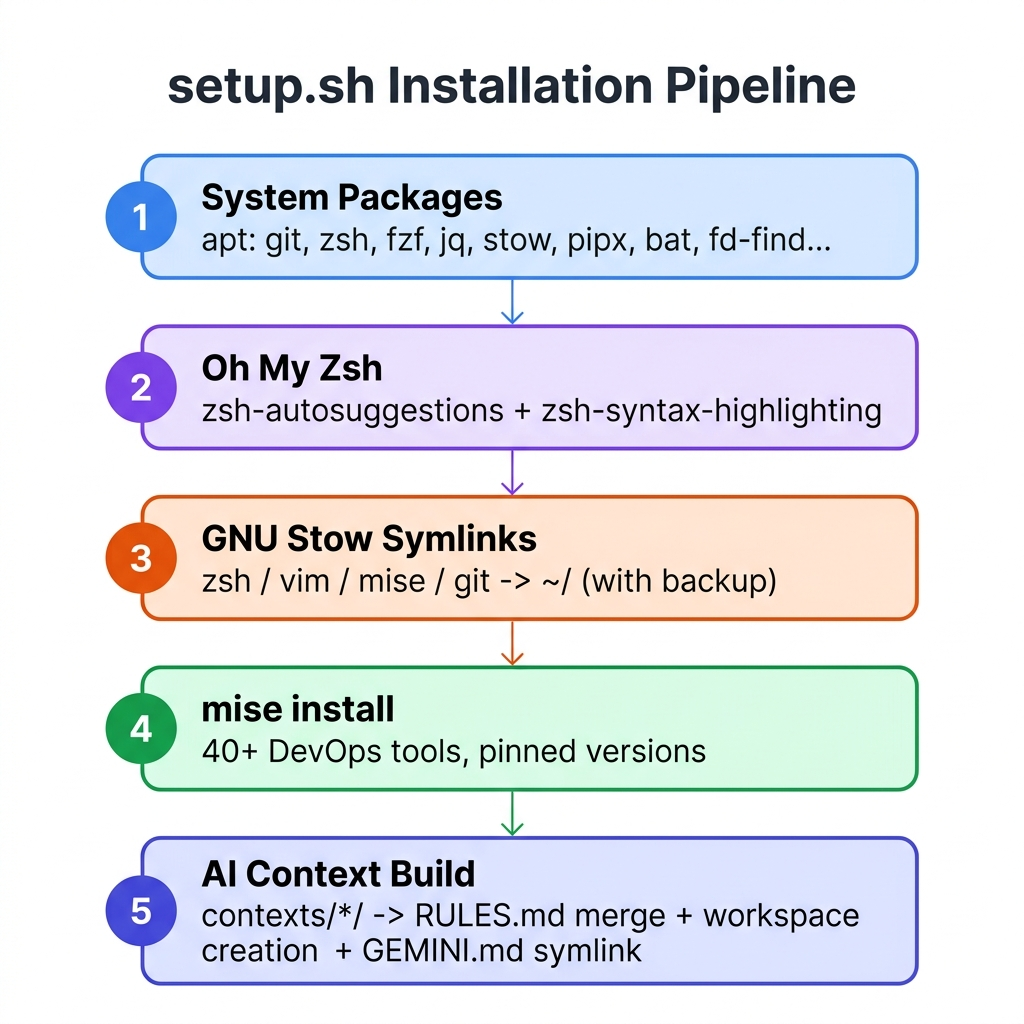
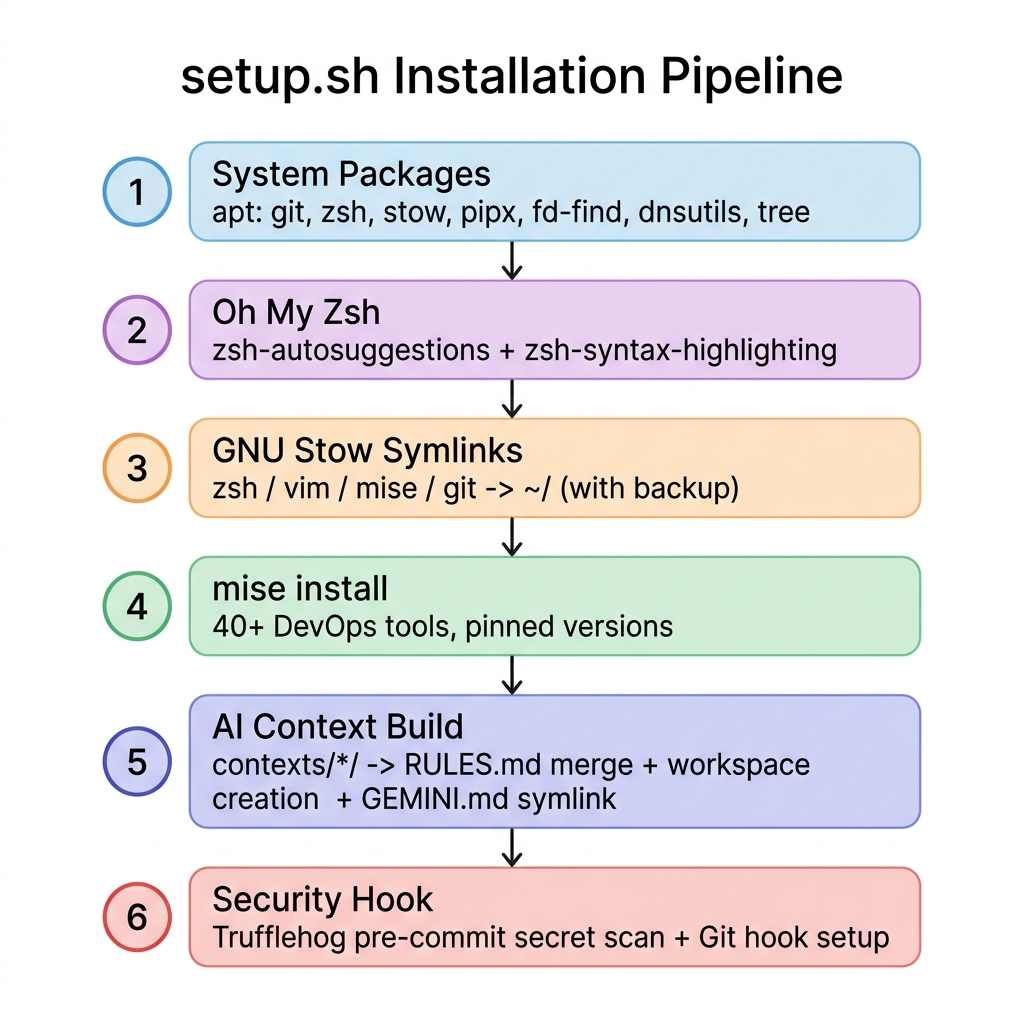
docs(readme): 설치 가이드 상단 배치 및 불필요 섹션 제거 (가독성 개선)
refactor: AWS/FinOps VPC 엔드포인트 프롬프트 논리 중복 제거

chore: setup-pipeline.png 이미지 최신 버전(6단계) 갱신

diff --git a/README.md b/README.md
@@ -8,12 +8,103 @@
 
 ## 목차
 
-1. [핵심 기능](#핵심-기능)
-2. [작동 논리 및 아키텍처](#작동-논리-및-아키텍처)
-3. [설치 가이드](#설치-가이드)
-4. [디렉토리 구조](#디렉토리-구조)
+1. [설치 가이드](#설치-가이드)
+2. [디렉토리 구조](#디렉토리-구조)
+3. [핵심 기능](#핵심-기능)
+4. [작동 논리 및 아키텍처](#작동-논리-및-아키텍처)
 5. [포함된 도구 및 단축어](#포함된-도구-및-단축어)
 6. [커스터마이징](#커스터마이징)
+
+---
+
+## 설치 가이드
+
+> [!WARNING]
+> **지원 OS**: Ubuntu / Debian 기반 Linux (또는 Windows WSL2 Ubuntu 환경)
+> WSL2 사용 시, 반드시 Linux 네이티브 홈 디렉토리(`~/`) 하위에 클론하십시오. `/mnt/c/` 경로에서 실행하면 권한 오류가 발생하며 스크립트가 즉시 종료됩니다.
+
+### Step 1. 저장소 클론
+
+```bash
+git clone https://github.com/iaminpwd/dotfiles.git ~/dotfiles
+cd ~/dotfiles
+```
+
+### Step 2. 자동 설치 스크립트 실행
+
+```bash
+./setup.sh
+```
+
+스크립트는 다음 6단계를 순차적으로 실행합니다.
+
+| 단계 | 작업 내용 |
+|---|---|
+| **[1/6]** 필수 패키지 설치 | `apt`로 git, zsh, stow, pipx, fd-find, dnsutils, tree 등 설치 |
+| **[2/6]** Oh My Zsh 구성 | Oh My Zsh + `zsh-autosuggestions`, `zsh-syntax-highlighting` 플러그인 설치 |
+| **[3/6]** Stow 심볼릭 링크 | 기존 설정 파일 백업 후, `zsh/vim/mise/git` 설정을 홈 디렉토리로 symlink |
+| **[4/6]** mise 인프라 도구 설치 | `mise install`로 `mise.toml`에 선언된 40+ 데브옵스 도구 일괄 설치 |
+| **[5/6]** AI 컨텍스트 빌드 | `contexts/*/` 순회하여 `RULES.md` 병합, 워크스페이스 생성, `GEMINI.md` symlink |
+| **[6/6]** 시크릿 보안 훅 | Trufflehog 기반 Git `pre-commit` 보안 스캔 훅 자동 구성 (시크릿 유출 원천 차단) |
+
+### Step 3. 터미널 재시작
+
+```bash
+exec zsh
+# 또는 기존 터미널에서: src
+```
+
+### 성공 검증 커맨드
+
+```bash
+# mise 도구 설치 확인
+mise ls
+
+# Stow symlink 확인
+ls -la ~/.zshrc ~/.gitconfig ~/.mise.toml
+
+# AI 컨텍스트 빌드 확인
+ls ~/workspace/aws/src && cat ~/dotfiles/GEMINI.md | head -5
+
+# 훅 동작 확인: aws workspace로 이동 후 확인
+cd ~/workspace/aws/src
+mkdir -p test-repo && cd test-repo && git init
+ls -la .gemini/
+```
+
+---
+
+## 디렉토리 구조
+
+```text
+~/dotfiles
+├── contexts/             # AI 컨텍스트 룰북 단일 진실 공급원 (SSOT)
+│   ├── 000-universal-core.md  # 전 워크스페이스 공통 마스터 엔진 (SSOT)
+│   ├── README.md              # 프롬프트 아키텍처 백과사전
+│   ├── aws/              # AWS 인프라 워크스페이스 룰북 🟢 Production
+│   ├── aiops/            # AIOps (운영 자동화) 워크스페이스 🟡 Draft
+│   ├── dotfiles/         # dotfiles 레포 자체 관리용 메타 프롬프트 🟢 Production
+│   └── k8s/              # Kubernetes & Cloud Native 워크스페이스 🟡 Draft
+│
+├── git/
+│   ├── .gitconfig        # 글로벌 Git 설정 (alias, pull.rebase=true)
+│   └── .gitignore_global # 시스템 전역 Git 무시 규칙 (tfstate, .env 등)
+│
+├── mise/
+│   └── .mise.toml        # 인프라 도구 버전 선언 매니페스트 (SSOT)
+│
+├── vim/
+│   └── .vimrc            # Vim 설정 (클립보드 연동, YAML 2칸 탭)
+│
+├── zsh/
+│   └── .zshrc            # Zsh 설정 (Oh My Zsh, 단축어, auto_symlink 훅)
+│
+├── .aiexclude            # 루트: contexts/ 내 원본 소스 중복 인덱싱 차단
+├── .gitignore            # dotfiles 레포 자체 Git 무시 규칙
+├── GEMINI.md             # symlink -> contexts/dotfiles/RULES.md
+├── README.md             # 본 문서
+└── setup.sh              # 전체 환경 자동 구성 스크립트 (set -euo pipefail)
+```
 
 ---
 
@@ -56,12 +147,12 @@
 
 **워크스페이스별 특화 모듈:**
 
-| 워크스페이스 | 모듈 수 | 주요 커버리지 |
-|---|---|---|
-| **AWS** (`aws/`) | 12개 (`000`~`110`) | 자격증명 격리, FinOps, Terraform, EKS, Serverless, RDS, 장애 대응 |
-| **K8s** (`k8s/`) | 10개 (`000`~`090`) | GitOps/ArgoCD, mTLS, External Secrets, eBPF 런타임 보안, KEDA |
-| **AIOps** (`aiops/`) | 8개 (`000`~`070`) | Blameless Post-Mortem, SRE 에러 분석, SLI/SLO 지표 기반 진단 |
-| **Dotfiles** (`dotfiles/`) | 5개 (`000`~`050`) | 인지 엔진, 셸 스크립팅 표준, 툴체인 관리, 보안, 메타 프롬프팅 |
+| 워크스페이스 | 상태 | 모듈 수 | 주요 커버리지 |
+|---|---|---|---|
+| **AWS** (`aws/`) | 🟢 **Production** | 12개 (`000`~`110`) | 자격증명 격리, FinOps, Terraform, EKS, Serverless, RDS, 장애 대응 |
+| **K8s** (`k8s/`) | 🟡 Draft (초안) | 10개 (`000`~`090`) | GitOps/ArgoCD, mTLS, External Secrets, eBPF 런타임 보안, KEDA |
+| **AIOps** (`aiops/`) | 🟡 Draft (초안) | 8개 (`000`~`070`) | Blameless Post-Mortem, SRE 에러 분석, SLI/SLO 지표 기반 진단 |
+| **Dotfiles** (`dotfiles/`) | 🟢 **Production** | 5개 (`000`~`050`) | 인지 엔진, 셸 스크립팅 표준, 툴체인 관리, 보안, 메타 프롬프팅 |
 
 ---
 
@@ -85,9 +176,14 @@
 
 > **[MUST] 수정 원칙:** 설정 파일을 직접 편집할 때는 반드시 `~/dotfiles/` 내의 원본 소스 파일만 조작하십시오. `~/.zshrc`를 직접 편집하면 symlink 아키텍처가 파괴됩니다.
 
-### Auto-Symlink 훅 동작 원리 (Zsh `chpwd`)
+### 이중 Auto-Symlink 훅 동작 원리 (Zsh `chpwd`)
 
-개발자가 특정 디렉토리로 `cd`할 때 AI 룰북이 자동 주입되는 메커니즘입니다.
+Zsh 디렉토리 이동(`cd`) 이벤트를 감지하여 두 가지 핵심 심볼릭 링크를 자동 주입합니다.
+
+1. **마스터 코어 룰북 주입 훅 (`auto_symlink_contexts_core`)**
+   - 개발자가 새로운 AI 룰 폴더(예: `~/dotfiles/contexts/gcp/`)로 진입하기만 하면, 즉시 최상단 `000-universal-core.md` SSOT 마스터 파일을 해당 폴더 내부에 동적으로 링크 생성하여 멱등성을 보장합니다.
+2. **워크스페이스 작업용 주입 훅 (`auto_symlink_ai_rules`)**
+   - 개발자가 인프라 작업 폴더(예: `~/workspace/aws/src/my-repo`)로 진입하면, 해당 환경의 `RULES.md` 룰북과 `.aiexclude`를 자동으로 주입하여 작업용 AI 컨텍스트를 완성합니다.
 
 <p align="center">
   <img src="assets/auto-symlink-hook.png" alt="Auto-Symlink Hook Workflow" width="480">
@@ -122,94 +218,6 @@ my-terraform-repo/
 
 ---
 
-## 설치 가이드
-
-> [!WARNING]
-> **지원 OS**: Ubuntu / Debian 기반 Linux (또는 Windows WSL2 Ubuntu 환경)
-> WSL2 사용 시, 반드시 Linux 네이티브 홈 디렉토리(`~/`) 하위에 클론하십시오. `/mnt/c/` 경로에서 실행하면 권한 오류가 발생하며 스크립트가 즉시 종료됩니다.
-
-### Step 1. 저장소 클론
-
-```bash
-git clone https://github.com/iaminpwd/dotfiles.git ~/dotfiles
-cd ~/dotfiles
-```
-
-### Step 2. 자동 설치 스크립트 실행
-
-```bash
-./setup.sh
-```
-
-스크립트는 다음 5단계를 순차적으로 실행합니다.
-
-| 단계 | 작업 내용 |
-|---|---|
-| **[1/5]** 필수 패키지 설치 | `apt`로 git, zsh, fzf, jq, stow, pipx, bat, fd-find, tree 등 설치 |
-| **[2/5]** Oh My Zsh 구성 | Oh My Zsh + `zsh-autosuggestions`, `zsh-syntax-highlighting` 플러그인 설치 |
-| **[3/5]** Stow 심볼릭 링크 | 기존 설정 파일 백업 후, `zsh/vim/mise/git` 설정을 홈 디렉토리로 symlink |
-| **[4/5]** mise 인프라 도구 설치 | `mise install`로 `mise.toml`에 선언된 40+ 데브옵스 도구 일괄 설치 |
-| **[5/5]** AI 컨텍스트 빌드 | `contexts/*/` 순회하여 `RULES.md` 병합, 워크스페이스 생성, `GEMINI.md` symlink |
-
-### Step 3. 터미널 재시작
-
-```bash
-exec zsh
-# 또는 기존 터미널에서: src
-```
-
-### 성공 검증 커맨드
-
-```bash
-# mise 도구 설치 확인
-mise ls
-
-# Stow symlink 확인
-ls -la ~/.zshrc ~/.gitconfig ~/.mise.toml
-
-# AI 컨텍스트 빌드 확인
-ls ~/workspace/aws/src && cat ~/dotfiles/GEMINI.md | head -5
-
-# 훅 동작 확인: aws workspace로 이동 후 확인
-cd ~/workspace/aws/src
-mkdir -p test-repo && cd test-repo && git init
-ls -la .gemini/
-```
-
----
-
-## 디렉토리 구조
-
-```text
-~/dotfiles
-├── contexts/             # AI 컨텍스트 룰북 단일 진실 공급원 (SSOT)
-│   ├── aws/              # AWS 인프라 워크스페이스 룰북
-│   ├── aiops/            # AIOps (운영 자동화) 워크스페이스
-│   ├── dotfiles/         # dotfiles 레포 자체 관리용 메타 프롬프트
-│   └── k8s/              # Kubernetes & Cloud Native 워크스페이스
-│
-├── git/
-│   ├── .gitconfig        # 글로벌 Git 설정 (alias, pull.rebase=true)
-│   └── .gitignore_global # 시스템 전역 Git 무시 규칙 (tfstate, .env 등)
-│
-├── mise/
-│   └── .mise.toml        # 인프라 도구 버전 선언 매니페스트 (SSOT)
-│
-├── vim/
-│   └── .vimrc            # Vim 설정 (클립보드 연동, YAML 2칸 탭)
-│
-├── zsh/
-│   └── .zshrc            # Zsh 설정 (Oh My Zsh, 단축어, auto_symlink 훅)
-│
-├── .aiexclude            # 루트: contexts/ 내 원본 소스 중복 인덱싱 차단
-├── .gitignore            # dotfiles 레포 자체 Git 무시 규칙
-├── GEMINI.md             # symlink -> contexts/dotfiles/RULES.md
-├── README.md             # 본 문서
-└── setup.sh              # 전체 환경 자동 구성 스크립트 (set -euo pipefail)
-```
-
----
-
 ## 포함된 도구 및 단축어
 
 ### 1. `mise.toml` 선언 도구 목록 (버전 고정)
@@ -234,54 +242,31 @@ ls -la .gemini/
 **런타임**
 `node` · `python` · `go`
 
+**CLI 유틸리티**
+`fzf` · `jq` · `bat`
+
 > 버전 고정 정보는 [`mise/.mise.toml`](mise/.mise.toml)에서 확인하십시오.
 
 ### 2. 주요 단축어 (`.zshrc` & `.gitconfig`)
 
-```bash
-# --- Terraform ---
-tf        # terraform
-tfi       # terraform init
-tfp       # terraform plan
-tfv       # terraform validate
-tff       # terraform fmt -recursive
-
-# --- Kubernetes ---
-k         # kubectl
-kx        # kubectx
-kn        # kubens
-kgp       # kubectl get pods
-kgs       # kubectl get svc
-kga       # kubectl get all
-kdp       # kubectl describe pod
-klogs     # kubectl logs -f
-kex       # kubectl exec -i -t
-knet      # 트러블슈팅용 netshoot 컨테이너 즉시 실행
-
-# --- Docker & Helm ---
-d         # docker
-dc        # docker-compose
-h         # helm
-
-# --- Git ---
-git st    # status
-git co    # checkout
-git cb    # checkout -b
-git br    # branch
-git cm    # commit -m
-git df    # diff
-git amend # commit --amend --no-edit
-git lg    # 컬러 그래프 히스토리 (가독성 최적화)
-
-# --- 시스템 편의성 ---
-src       # source ~/.zshrc (설정 즉시 재로드)
-ll        # ls -alF
-bat       # batcat (Ubuntu 패키지명 충돌 해결)
-fd        # fdfind (Ubuntu 패키지명 충돌 해결)
-c         # code .
-e         # explorer.exe . (WSL2)
-catcode   # 현재 디렉토리 인프라 코드 전체를 all_code.txt로 추출
-```
+| 카테고리 | 단축어 | 명령어 | 단축어 | 명령어 |
+| :--- | :--- | :--- | :--- | :--- |
+| **Terraform** | `tf` | `terraform` | `tfi` | `terraform init` |
+| | `tfp` | `terraform plan` | `tfv` | `terraform validate` |
+| | `tff` | `terraform fmt -recursive` | | |
+| **Kubernetes** | `k` | `kubectl` | `kx` / `kn` | `kubectx` / `kubens` |
+| | `kgp` | `kubectl get pods` | `kgs` | `kubectl get svc` |
+| | `kga` | `kubectl get all` | `kdp` | `kubectl describe pod` |
+| | `klogs` | `kubectl logs -f` | `kex` | `kubectl exec -i -t` |
+| | `knet` | `netshoot 실행 (트러블슈팅)` | | |
+| **Docker/Helm** | `d` | `docker` | `dc` / `h`| `docker-compose` / `helm`|
+| **Git** | `git st` | `status` | `git co` | `checkout` |
+| | `git cb` | `checkout -b` | `git br` | `branch` |
+| | `git cm` | `commit -m` | `git df` | `diff` |
+| | `git amend` | `commit --amend --no-edit` | `git lg` | `컬러 그래프 히스토리` |
+| **시스템/기타** | `src` | `source ~/.zshrc (설정 재로드)` | `ll` | `ls -alF` |
+| | `fd` | `fdfind (충돌 해결)` | `c` / `e` | `code .` / `explorer.exe .` |
+| | `catcode` | `인프라 코드 전체 추출 (all_code.txt)` | | |
 
 ### 3. 로컬 시크릿 파일 (`~/.zshrc.local`)
 
@@ -344,12 +329,13 @@ vim ~/dotfiles/contexts/aws/.contexts/020-security-compliance.md
 새로운 환경(예: GCP)을 추가하려면 기존 워크스페이스 구조를 참고하여 디렉토리를 구성한 후 `setup.sh`를 재실행하십시오.
 
 ```bash
-# 신규 워크스페이스 디렉토리 생성
-mkdir -p ~/dotfiles/contexts/gcp/.contexts
+# 1. 신규 워크스페이스 도메인 디렉토리 진입 
+# (진입 시 Zsh 훅이 작동하여 .contexts 폴더와 000 마스터 코어 링크를 자동 주입합니다)
+mkdir -p ~/dotfiles/contexts/gcp
+cd ~/dotfiles/contexts/gcp
 
-# 모듈 파일 작성 (000-universal-core.md 부터 시작)
-cp ~/dotfiles/contexts/aws/.contexts/000-universal-core.md \
-   ~/dotfiles/contexts/gcp/.contexts/000-universal-core.md
+# 2. 도메인 특화 모듈 파일 작성 (010부터 시작)
+touch .contexts/010-gcp-core.md
 
 # setup.sh 재실행으로 자동 빌드 및 워크스페이스 생성
 ~/dotfiles/setup.sh
@@ -357,3 +343,4 @@ cp ~/dotfiles/contexts/aws/.contexts/000-universal-core.md \
 
 > [!NOTE]
 > `setup.sh`는 `contexts/` 하위의 모든 디렉토리를 자동 순회합니다. 새 디렉토리 추가 후 재실행만으로 `~/workspace/gcp/src/` 워크스페이스와 `RULES.md` 빌드가 자동으로 수행됩니다.
+

diff --git a/contexts/aws/.contexts/020-security-compliance.md b/contexts/aws/.contexts/020-security-compliance.md
@@ -12,7 +12,7 @@
 - **[MUST] IaC 레벨의 CIDR 유효성 검증 강제 (Code Validation):** Terraform 등에서 Public 웹 서비스(80/443) 목적이 아닌 모든 리소스의 CIDR 블록을 변수로 받을 때, 만약 값이 `0.0.0.0/0`이라면 '웹 포트 외의 전체 개방 시 보안 규정 위반으로 처리됩니다'라는 에러 메시지를 출력하고 배포를 중단시키는 `validation` 블록을 반드시 포함하십시오.
 - **[PREFER] WAF/Shield:** 퍼블릭 엔드포인트(ALB, CloudFront) 제안 시 AWS WAF와 Shield Advanced를 포함하십시오.
 - **[MUST] Session Manager:** 인스턴스 관리 접근 시 보안을 위해 AWS SSM Session Manager를 1순위로 제안하십시오.
-- **[MUST] VPC Endpoint:** AWS 내부 서비스(S3, DynamoDB 등) 통신 시 NAT 요금 방어를 위해 VPC Endpoint를 제안하십시오.
+- **[MUST] VPC Endpoint:** AWS 내부 서비스(S3, DynamoDB 등) 통신 시 퍼블릭 인터넷을 우회하여 데이터 경로를 격리하기 위해 VPC Endpoint를 제안하십시오.
 
 ## 3. 엔터프라이즈 권한 통제 (IAM)
 - **[MUST] 명시적 최소 권한 부여 (Least Privilege):** IAM 정책 작성 시, 반드시 정확한 작업(Action) 이름과 명시적인 리소스 ARN(예: 특정 S3 버킷, DynamoDB 테이블)을 지정하여 최소 권한을 부여하십시오.
